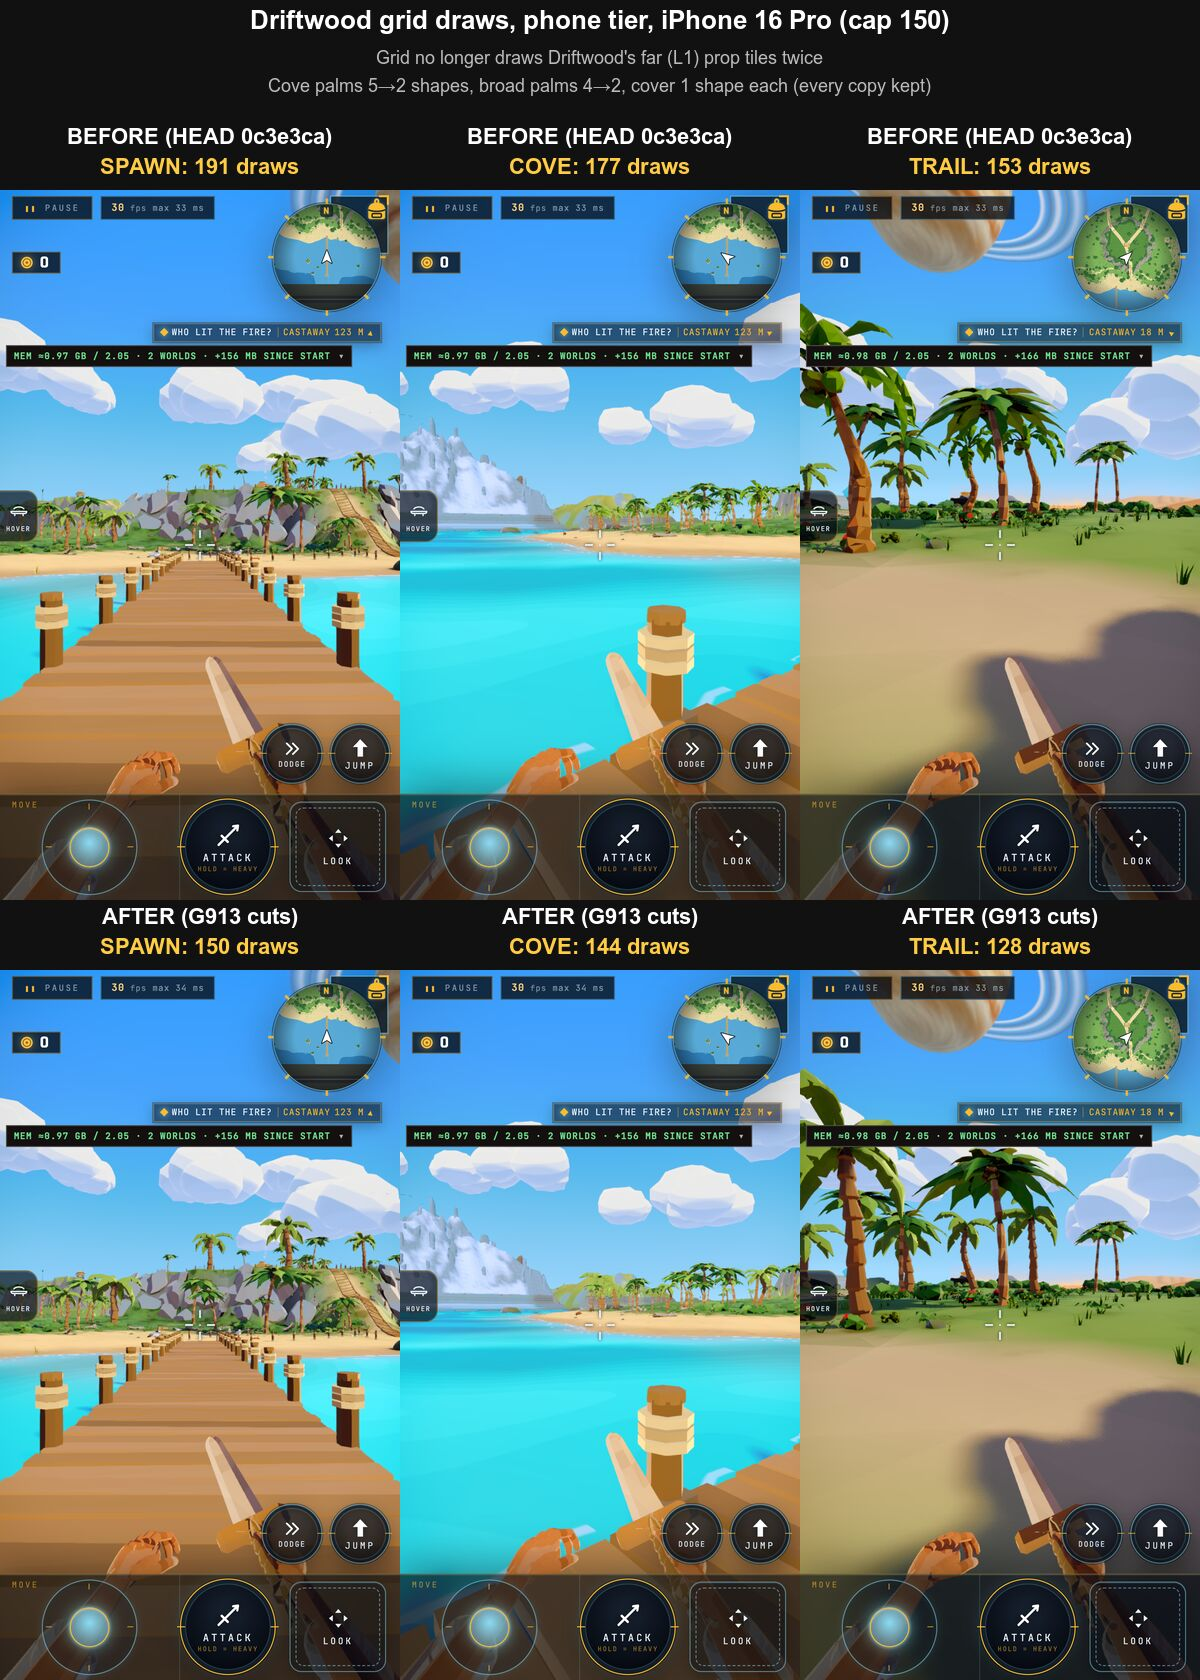
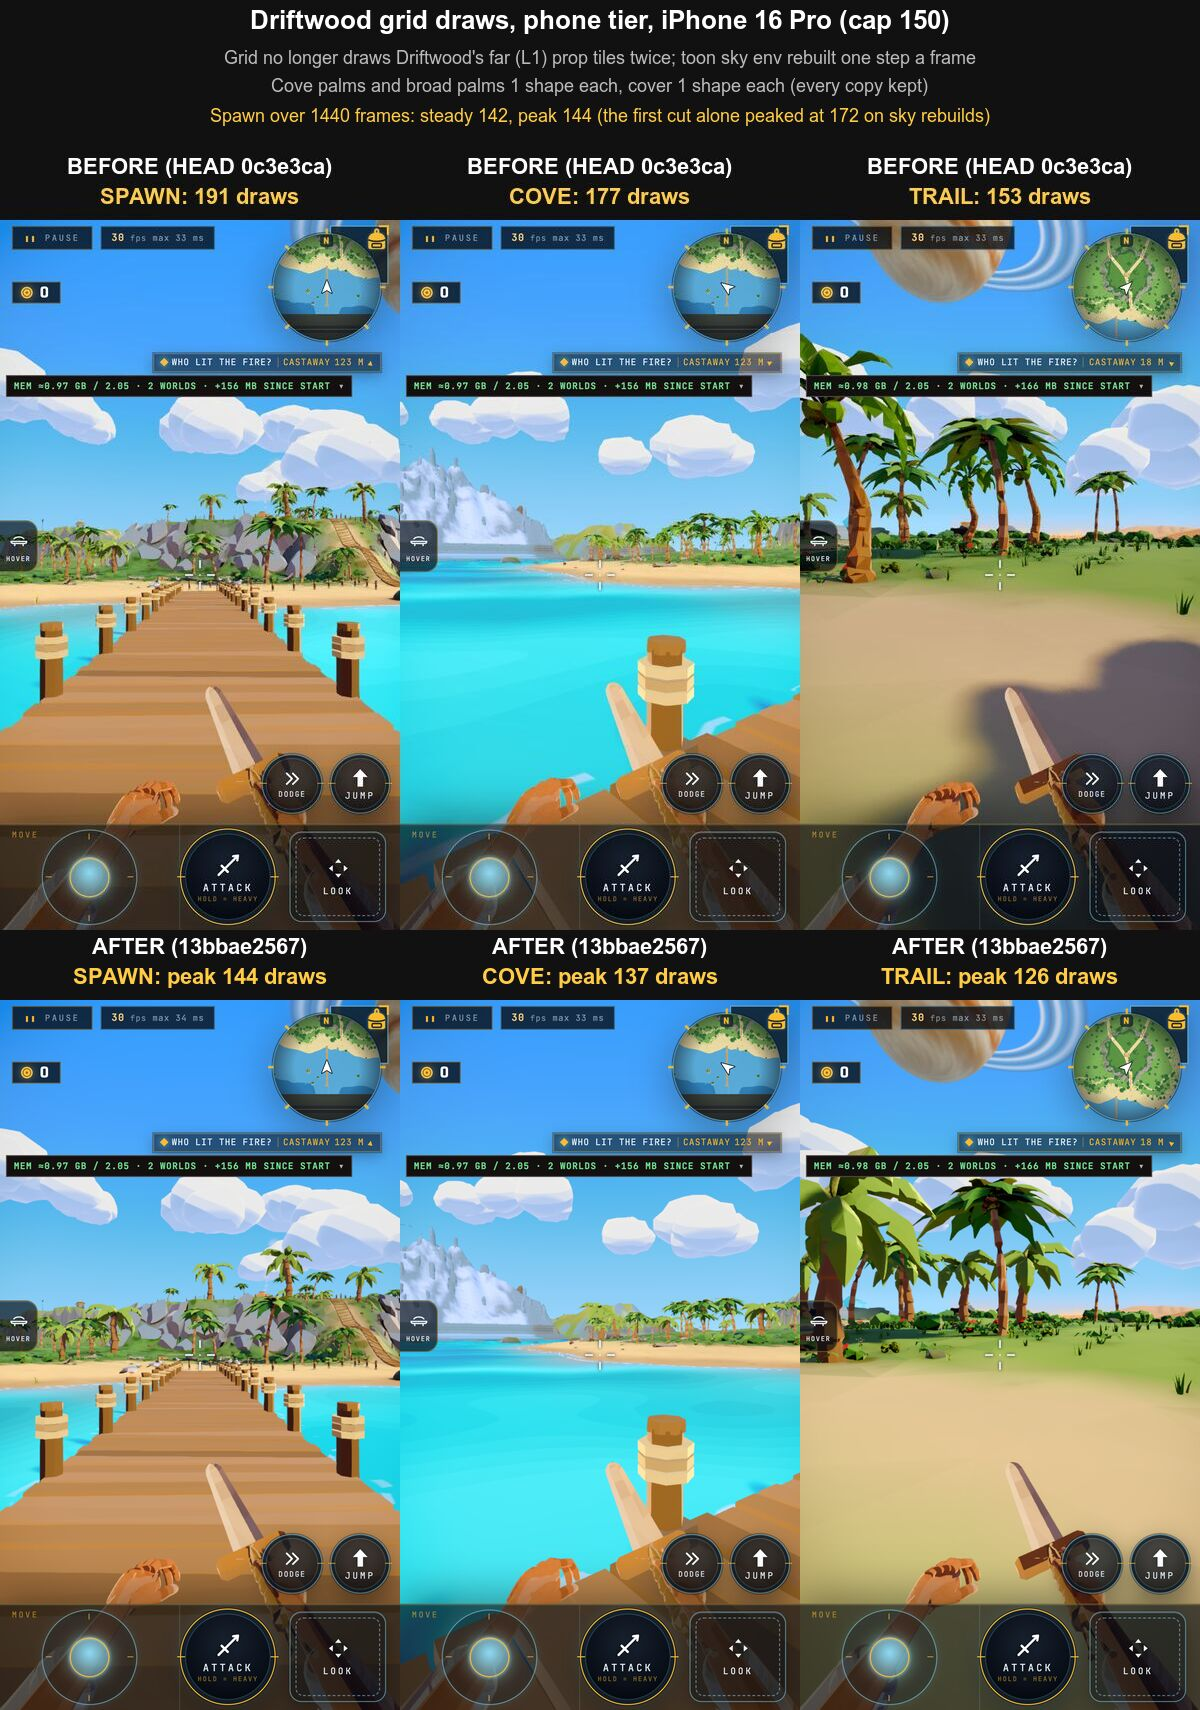
docs(shard-platform): G913 grid spawn met at 144
Driftwood's grid spawn: 191 at HEAD 0c3e3ca -> steady 142, peak 144
over 1440 frames on 13bbae2567 (Chromium Metal, phone tier, iPhone
16 Pro). Cove 137, trail 126. The ledger row logs the four cuts and
the rulings; the board's after row is the final build.

Assisted-by: Claude Code:claude-opus-5-5

diff --git a/docs/plans/shard-platform/finish-fps-2026-10-30-mini-spike.md b/docs/plans/shard-platform/finish-fps-2026-10-30-mini-spike.md
@@ -324,39 +324,45 @@ parity, or an explicitly approved Opus look change meets it.
 **Met (2026-11-03, Opus; G872 ruling, G844 board
 `art/driftwood-grid-draws/round-1-g913/before-after-board.jpg`).**
 Native draws a frame, Chromium ANGLE Metal, iPhone 16 Pro 402 × 714 at
-2×, phone tier, Developer, seed 357, 120 frames after 20 s settle per
-pose. HEAD `0c3e3ca` preview → the same tree with the cuts:
+2×, phone tier, Developer, seed 357, live clock, after a 20 s settle.
+Before: HEAD `0c3e3ca`, 120 frames a pose. After: `13bbae2567`,
+1440 frames at spawn and 360 at each other pose.
 
 | Pose | Before max (p50) | After max (p50) |
 |---|---:|---:|
-| Spawn (0, −194, yaw π) | 191 (191) | **150 (150)** |
-| Cove (spawn, yaw −2.2) | 199 (177) | 166 (144) |
-| Trail (−22, −90, yaw 0.75π) | 153 (153) | 128 (128) |
+| Spawn (0, −194, yaw π) | 191 (191) | **144 (142)** |
+| Cove (spawn, yaw −2.2) | 199 (177) | 137 (135) |
+| Trail (−22, −90, yaw 0.75π) | 153 (153) | 126 (124) |
 
-The cove maximum is one streaming frame after the pose jump, in both
-builds. Simulator before, same SHA (sp-x1 OB8-GRID-HOME-DRAWS, official
-window on `0c3e3ca16b`): home spawn 181 max draws, 1,055,435 median
-triangles, p95 35 / max 47 ms, with 6 residents still pending. The cuts
-removed 41 Chromium draws at spawn. No Simulator after reading is
-claimed yet: it belongs to the next milestone Simulator run. Three cuts, all Driftwood-only (Pine and Nine untouched, G908;
-no multi-draw, E271):
-- **Grid double L1 (exact in intent, ~10 draws):** Driftwood's
-  `farStandIn` assembly installed every coarse L1 props tile itself
-  (`wholeRefinementCover`) while the grid's T8 ring drew the same tiles
-  (same bounds and index counts, 0.8 m apart). In a grid cell the
-  stand-in is now skipped (`clientWorldAssembly.ts`); standalone keeps it.
-  No difference shows at the three poses.
-- **Cove variant folds (look trade, ruled):** `coveFamilies.json`
-  `fold` draws a folded prototype's copies as a kept one of its family.
-  Every copy, tint, scale and collider stays; only the shape repeats.
-  Palms 5 → 2 and broad palms 4 → 2 (each kept variant is 2 LODs × main +
-  shadow), shell / star / pebble / beach grass / yellow / white / fern /
-  hibiscus / bush / flowering bush → 1, tufts 4 → 2. Ruling: it hides
-  best of the listed trades. Low-poly toon copies differ by rotation,
-  scale and tint, so the trail close-up still reads as a varied grove;
-  cover density and the ground wear are unchanged. Kit-still merge and
-  ring coverage were not needed.
-- No margin at spawn (150). Next lever, if content grows: phone-only
-  far-LOD palm shadows (palms past 110 m are outside the phone's 80 m
-  cascade, −4 draws). It needs a per-tier LOD shadow field, because
-  desktop's cascade reaches 220 m.
+The before cove maximum is one streaming frame after the pose jump.
+Simulator before, same SHA (sp-x1 OB8-GRID-HOME-DRAWS, official window
+on `0c3e3ca16b`): home spawn 181 max draws, 1,055,435 median triangles,
+p95 35 / max 47 ms, with 6 residents still pending. No Simulator after
+reading is claimed: it belongs to the next milestone Simulator run.
+Four cuts, all Driftwood-only (Pine and Nine untouched, G908; no
+multi-draw, E271):
+- **Grid double L1 (`afddc7b6f9`, ~10 draws, no visible change):**
+  Driftwood's `farStandIn` assembly installed every coarse L1 props tile
+  itself (`wholeRefinementCover`) while the grid's T8 ring drew the same
+  tiles (same bounds and index counts, 0.8 m apart). A grid cell now
+  skips the stand-in (`clientWorldAssembly.ts`); standalone keeps it.
+- **Cove variant folds (`afddc7b6f9` + `13bbae2567`, look trade,
+  ruled):** `coveFamilies.json` `fold` draws a folded prototype's copies
+  as a kept one of its family. Every copy, tint, scale and collider
+  stays; only the shape repeats. Palms 5 → 1 and broad palms 4 → 1 (each
+  kept variant costs 2 LODs × main + shadow), shell / star / pebble /
+  beach grass / yellow / white / fern / hibiscus / bush / flowering bush
+  → 1, tufts 4 → 2. Ruling: these hide best of the listed trades.
+  Low-poly toon copies differ in lean, scale and tint, so the trail
+  close-up still reads as a grove. Cover density and the ground wear are
+  unchanged. Kit-still merges and ring coverage were not needed.
+- **Sky env rebuild spike (`af99979cd0`, exact):** a 120-frame window
+  missed it. Every 15 s the toon sky rebuilt its PMREM environment whole
+  in one frame (6 faces × box + dome, 10 GGX passes: +22 draws, 172 after
+  the first cut). It now uses the stepped refresh, with a scene source's
+  top level one cube face a step (`skyEnvironment.ts`). Pine's equirect
+  keyed sky keeps its steps. The env-step frames now add ≤ 2.
+- Margin 6 at spawn. Next lever, if content grows: phone-only far-LOD
+  palm shadows (palms past 110 m are outside the phone's 80 m cascade,
+  −2 draws now). It needs a per-tier LOD shadow field, because desktop's
+  cascade reaches 220 m.
